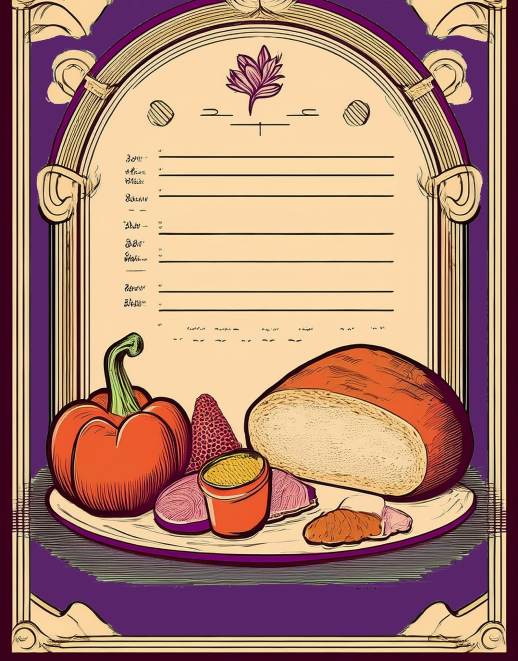
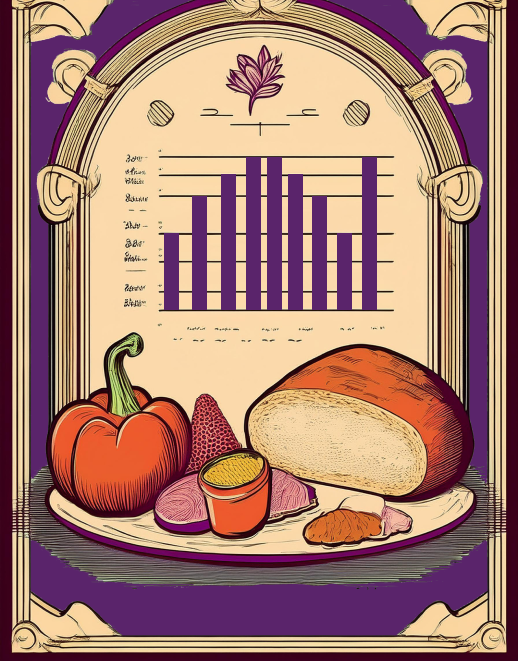
username output working

Changed region(s): [[0.3089, 0.2421, 0.7413, 0.4841]]

diff --git a/index.html b/index.html
@@ -13,7 +13,6 @@
     <link rel="stylesheet" href="css/banner.css">
     <link rel="stylesheet" href="css/offer.css">
     <!-- script -->
-     <script src="js/offer.js" ></script>
     <meta charset="UTF-8">
     <meta name="viewport" content="width=device-width, initial-scale=1.0">
     <title>BETTER LIFE</title>
@@ -64,5 +63,7 @@
           </div>
         </div>
     </section> 
+
+
 </body>
 </html>

diff --git a/home_page.php b/home_page.php
@@ -1,3 +1,12 @@
+<?php
+require_once 'includes/config_session.inc.php';
+require_once 'includes/dbh.inc.php';
+require_once 'includes/login_view.inc.php';
+require_once 'includes/login_model.inc.php';
+require_once 'includes/homepage_view.inc.php';
+?>
+
+
 <!DOCTYPE html>
 <html lang="en">
 <head>
@@ -16,7 +25,8 @@
     <link rel="stylesheet" href="css/master.css">
     <meta charset="UTF-8">
     <meta name="viewport" content="width=device-width, initial-scale=1.0">
-    <title>Document</title>
+    <title>Homepage</title>
+    <script src="https://cdn.jsdelivr.net/npm/chart.js"></script>
 </head>
 <body>
   <header>
@@ -25,10 +35,10 @@
     </div>
     <div class="items">
       <ul class="ul_header">
-        <li class="i_header"><a href="">Home </a></li>
-        <li class="i_header"><a href="">Profile </a></li>
+        <li class="i_header"><a href=""><?php output_username(); ?></a></li>
+        <li class="i_header"><a href="home_page.php">Home </a></li>
         <li class="i_header"><a href="">Settings </a></li>
-        <li class="i_header"><form action="includes/logout.inc.php" method="post"><<button>log out</button></form></li>
+        <li class="i_header"><form action="includes/logout.inc.php" method="post"><button> log out</button></form></li>
       </ul>
     </div>
   </header>
@@ -88,7 +98,7 @@
       <div class="h1_cal">
         <h1>0</h1>
         <h1>/</h1>
-        <h1>0</h1>
+        <h1><?php  echo "Max Calorie: " . $max_calorie ?></h1>
       </div>
       <div class="img_cal">
         <img class="img_cal_1" src="img/plus-circle.png" alt="">
@@ -140,26 +150,9 @@
   </div>
 </section>
 <section class="chart">
-  <div class="chart_con">
-    <div class="chart_fram">
-      <div class="chart_num">
-        <h1 class="num">3000</h1>
-        <h1 class="num">1800</h1>
-        <h1 class="num">1200</h1>
-        <h1 class="num">600</h1>
-        <h1 class="num">0</h1>
-      </div>
-      <div class="chart_day">
-        <h1 class="day">Sun</h1>
-        <h1 class="day">Mon</h1>
-        <h1 class="day">Tue</h1>
-        <h1 class="day">Wed</h1>
-        <h1 class="day">Thur</h1>
-        <h1 class="day">fRI</h1>
-        <h1 class="day">Sat</h1>
-      </div>
-    </div>
-  </div>
+<canvas id="myChart"></canvas>
+    <script src="js/chart.js">
+    </script>
 </section>
 <section class="chat_bot">
         <script type="text/javascript">

diff --git a/includes/login_model.inc.php b/includes/login_model.inc.php
@@ -1,5 +1,4 @@
 <?php
-
 // Function to get user information from the database based on the username
 function get_user(object $pdo, string $username) {
     // SQL query to select all columns from the 'users' table where the username matches the given value
@@ -17,4 +16,22 @@ function get_user(object $pdo, string $username) {
     // Fetch the resulting row as an associative array and return it
     $result = $stmt->fetch(PDO::FETCH_ASSOC);
     return $result;
+}
+
+function get_max_calorie(object $pdo, string $username) {
+    // SQL query to select max_calorie from the 'users' table where the username matches the given value
+    $query = "SELECT max_calorie FROM users WHERE username = :username;";
+    
+    // Prepare the SQL statement to prevent SQL injection
+    $stmt = $pdo->prepare($query);
+    
+    // Bind the provided username to the SQL statement (should be PARAM_STR)
+    $stmt->bindParam(":username", $username, PDO::PARAM_STR);
+    
+    // Execute the prepared statement
+    $stmt->execute();
+    
+    // Fetch the resulting row as an associative array and return it
+    $result = $stmt->fetch(PDO::FETCH_ASSOC);
+    return $result ?? null; // Return null if no result is found
 }

diff --git a/includes/formhandler2.inc.php b/includes/formhandler2.inc.php
@@ -50,10 +50,12 @@ if ($_SERVER["REQUEST_METHOD"] == "POST") {
         // Store user information in the session
         $_SESSION["user_id"] = $result["id"];
         $_SESSION["user_username"] = htmlspecialchars($result["username"]); // Escape username to prevent XSS
+        $_SESSION["user_max_calorie"] = htmlspecialchars($result["max_calorie"]);
         $_SESSION["last_regeneation"] = time(); // Set the time of the last session regeneration
 
-        // Redirect to the register page after successful login
-        header("Location: ../register.php");
+
+        // Redirect to the Home Page after successful login
+        header("Location: ../home_page.php");   
 
         // Close the database connection
         $pdo = null;

diff --git a/includes/config_session.inc.php b/includes/config_session.inc.php
@@ -57,12 +57,14 @@ function session_regenerate_id_loggedin()
 {
     session_regenerate_id(true); // Regenerate session ID and delete the old one
 
-    $usrId = $_SESSION["user_id"]; // Get the user ID from the session
+    $userId = $_SESSION["user_id"]; // Get the user ID from the session
 
     // Create a new session ID and append the user ID for better tracking
     $newSessionId = session_create_id();
-    $sessionid = $newSessionId . "_" . $usrId;
+    $sessionid = $newSessionId . "_" . $userId;
     session_id($sessionid); // Set the new session ID
 
     $_SESSION["last_regeneation"] = time(); // Update the last regeneration time
 }
+
+

diff --git a/includes/homepage_view.inc.php b/includes/homepage_view.inc.php
@@ -1,0 +1,15 @@
+<?php
+
+function output_username(){
+    if (isset($_SESSION["user_id"])){
+        echo htmlspecialchars($_SESSION["user_username"]);
+    }
+
+}
+
+function output_max_calorie(){
+    if (isset($_SESSION["user_id"])){
+        echo htmlspecialchars($_SESSION["max_calorie"]);
+    }
+
+}

diff --git a/register.php b/register.php
@@ -46,7 +46,6 @@ require_once 'includes/register_view.inc.php';
                         <button >Register</button>
                     </div>
                 </form>
-                <h1 class="form-error">test</h1>
                 <?php
                 check_register_error () ;
                 ?>

diff --git a/includes/login_contr.inc.php b/includes/login_contr.inc.php
@@ -1,4 +1,5 @@
 <?php
+
 function is_input_empty(string $username, string $pwd){
     if (empty($username || empty($pwd))) {
         return true; 
@@ -32,3 +33,4 @@ function is_password_wrong(string $pwd, string $hashedPwd){
     }
 
 }
+

diff --git a/includes/login_view.inc.php b/includes/login_view.inc.php
@@ -1,4 +1,6 @@
 <?php
+require_once 'includes/config_session.inc.php';
+require_once 'includes/dbh.inc.php';
 
 // Function to check and display login error messages
 function check_login_error() {
